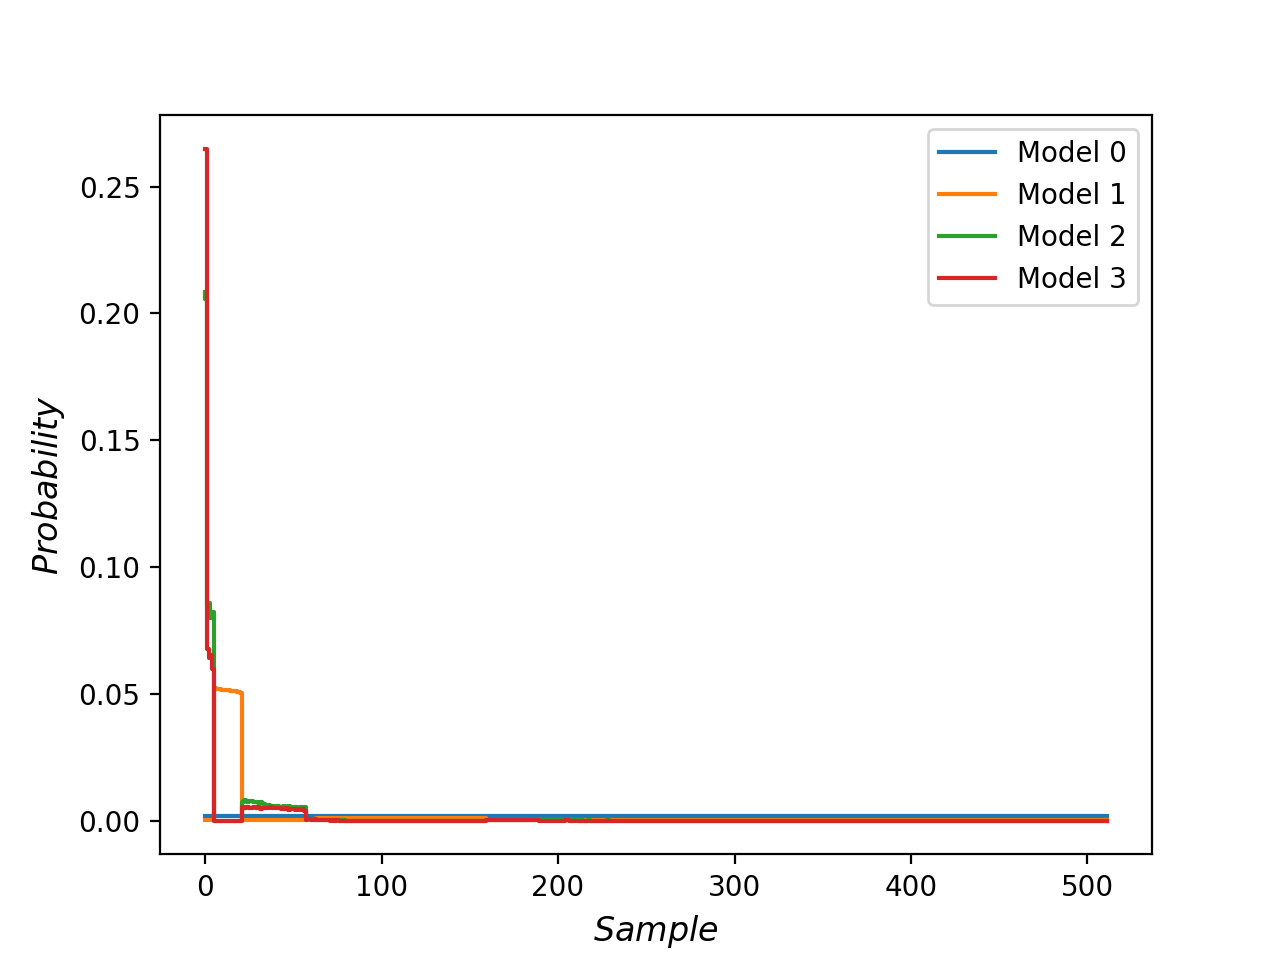
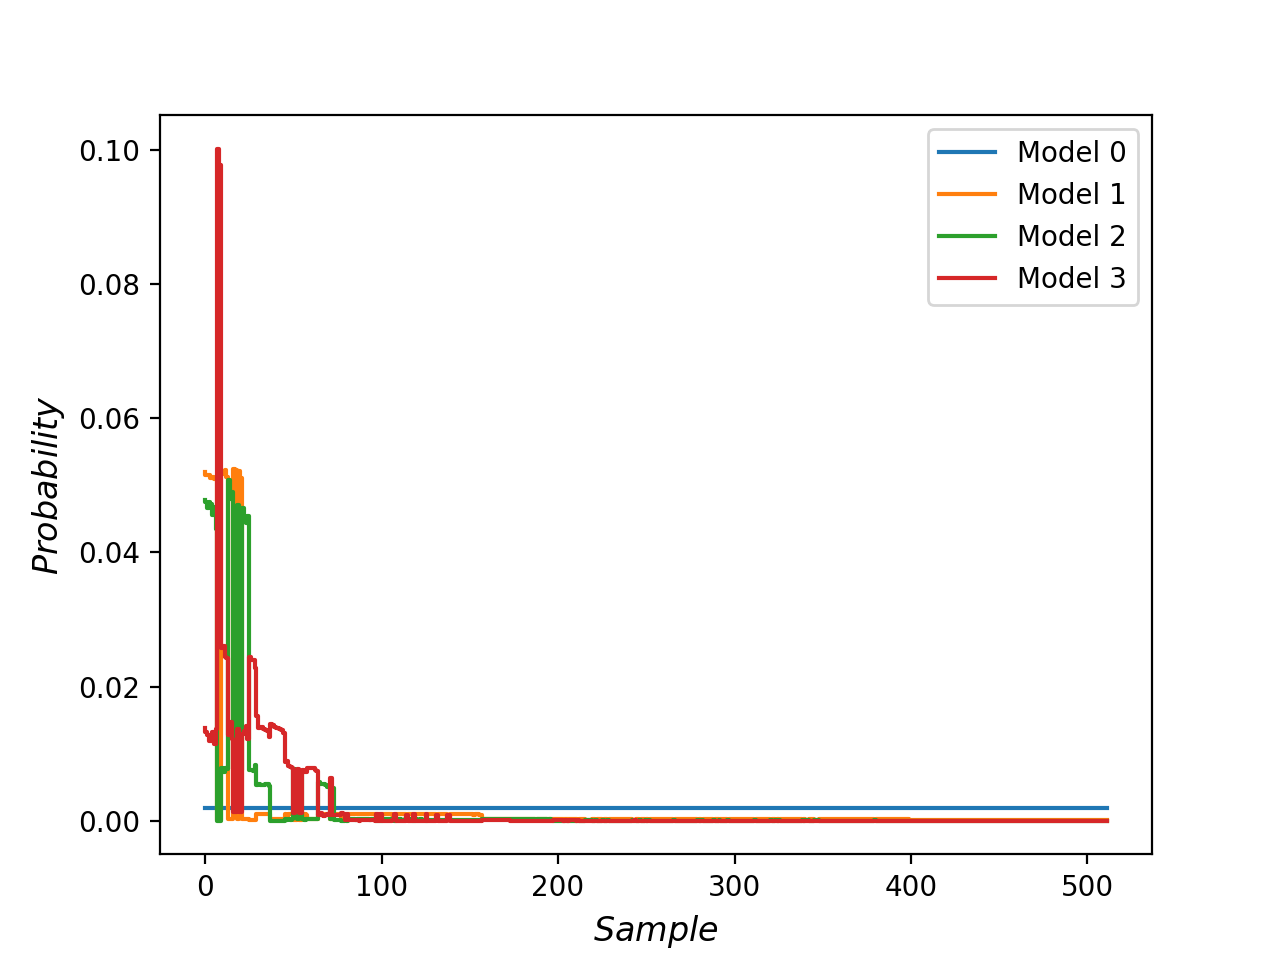
Assignment 1 finished

diff --git a/Assignments/A1/Practical/Practice3.py b/Assignments/A1/Practical/Practice3.py
@@ -98,7 +98,10 @@ def M3(dataset, param1, param2, param3):
 
 def getParameter(model):
     mean = np.zeros(model)
+    #mean = 5 * np.ones(model) Uncoment for mean 5
     variance = pow(10,2) * np.identity(model)
+    #variance = np.random.rand(model,model)
+    #variance = pow(10,2) * np.dot(variance, np.transpose(variance)) Uncoment for semi-definite random covariance
     return np.random.multivariate_normal(mean,variance)
 
 def computeModels(results, dataset, i):
